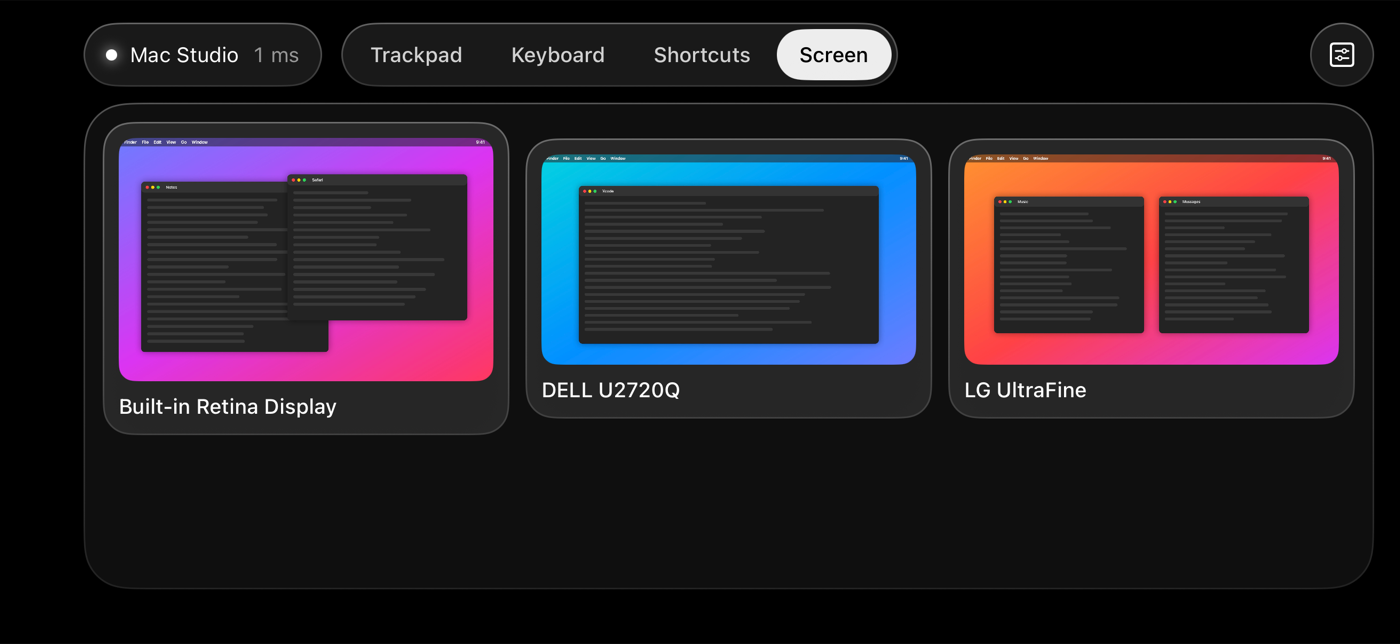
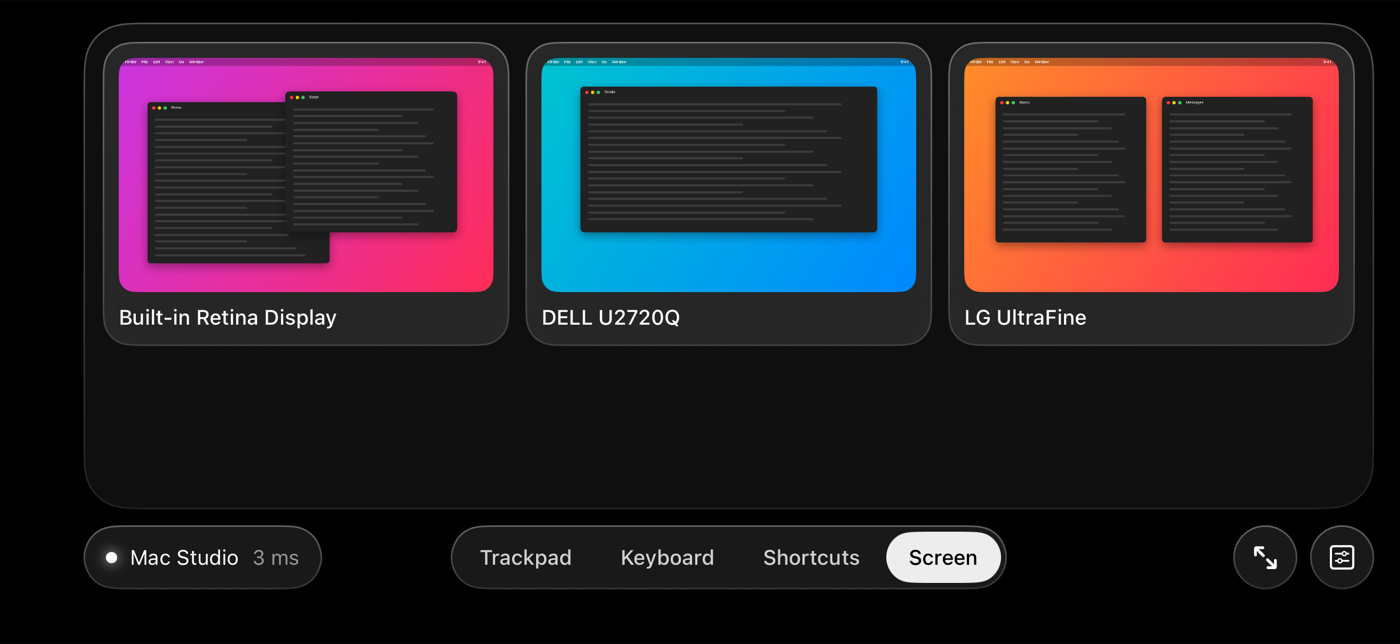
Retake the README screenshots with the bar at the bottom
New shots of the trackpad, keyboard, shortcuts, Screen tab and Settings, plus one of the trackpad in
full screen. They come from a -demo launch argument (Debug builds only): the app looks connected to a
made-up Mac with made-up desktops, so no real screen ends up in a picture.

diff --git a/DigitalControler/Client.swift b/DigitalControler/Client.swift
@@ -31,6 +31,7 @@ final class Client {
     var connecting: Bool { connection != nil && !connected }
     var error: String?
     private var browser: NWBrowser?
+    private var offline = false // a preview: never touches the network
     private var connection: NWConnection?
     /// Off once the user taps Disconnect or an automatic attempt fails, so we never fight the user.
     private var autoReconnect = true
@@ -40,7 +41,7 @@ final class Client {
     private var pingSentAt = Date.distantPast
 
     func startBrowsing() {
-        guard browser == nil else { return }
+        guard browser == nil, !offline else { return }
         // Peer-to-peer too, like the connection itself: finds the Mac over Apple's direct Wi-Fi link (AWDL)
         // when the router doesn't pass Bonjour, or the two aren't on the same network.
         let params = NWParameters.tcp
@@ -294,31 +295,73 @@ extension NWEndpoint {
 
 #if DEBUG
 extension Client {
-    /// Looks connected to a Mac that's sharing its screens, for previews. Nothing goes over the network.
-    static func preview(displays: [String] = ["Built-in Retina Display", "LG UltraFine", "Sidecar"],
+    /// Looks connected to a Mac that's sharing its screens, for previews and README screenshots.
+    /// Nothing goes over the network.
+    static func preview(macName: String = "MacBook Pro",
+                        displays: [String] = ["Built-in Retina Display", "DELL U2720Q", "LG UltraFine"],
                         selected: Int? = nil) -> Client {
         let c = Client()
+        c.offline = true
         c.connected = true
-        c.macName = "MacBook Pro"
-        c.latencyMs = 8
+        c.macName = macName
+        c.latencyMs = 3
         c.displays = displays
         c.selectedDisplay = selected
-        for i in displays.indices { c.screenFrames[i] = fakeScreen(hue: 0.55 + Double(i) * 0.12) }
+        for i in displays.indices { c.screenFrames[i] = fakeDesktop(i) }
         return c
     }
 
-    /// A made-up desktop: wallpaper, menu bar, two windows.
-    private static func fakeScreen(hue: Double) -> UIImage {
+    /// Launched with `-demo` (and optionally `-demo <display>` to open one): the app shows `preview`,
+    /// for README screenshots without a real Mac's screens in them.
+    static var demo: Client? {
+        let args = CommandLine.arguments
+        guard let i = args.firstIndex(of: "-demo") else { return nil }
+        return .preview(macName: "Mac Studio", selected: args.indices.contains(i + 1) ? Int(args[i + 1]) : nil)
+    }
+
+    /// A made-up desktop: gradient wallpaper, menu bar, and a window or two with lines for text.
+    private static func fakeDesktop(_ index: Int) -> UIImage {
+        let looks: [(colors: [UIColor], windows: [(String, CGRect)])] = [
+            ([.systemPurple, .systemPink], [("Notes", CGRect(x: 110, y: 170, width: 700, height: 620)),
+                                             ("Safari", CGRect(x: 640, y: 130, width: 660, height: 540))]),
+            ([.systemTeal, .systemBlue], [("Xcode", CGRect(x: 150, y: 110, width: 1140, height: 560))]),
+            ([.systemOrange, .systemPink], [("Music", CGRect(x: 120, y: 150, width: 580, height: 560)),
+                                            ("Messages", CGRect(x: 760, y: 150, width: 580, height: 560))]),
+        ]
+        let look = looks[index % looks.count]
         let size = CGSize(width: 1440, height: 900)
         return UIGraphicsImageRenderer(size: size).image { ctx in
-            UIColor(hue: hue, saturation: 0.5, brightness: 0.45, alpha: 1).setFill()
-            ctx.fill(CGRect(origin: .zero, size: size))
-            UIColor(white: 0.1, alpha: 0.8).setFill()
-            ctx.fill(CGRect(x: 0, y: 0, width: size.width, height: 34))
-            for (i, frame) in [CGRect(x: 140, y: 140, width: 760, height: 520),
-                               CGRect(x: 620, y: 300, width: 680, height: 480)].enumerated() {
-                UIColor(white: i == 0 ? 0.92 : 0.18, alpha: 1).setFill()
-                UIBezierPath(roundedRect: frame, cornerRadius: 18).fill()
+            let cg = ctx.cgContext
+            let gradient = CGGradient(colorsSpace: nil, colors: look.colors.map(\.cgColor) as CFArray, locations: nil)!
+            cg.drawLinearGradient(gradient, start: .zero, end: CGPoint(x: size.width, y: size.height), options: [])
+            UIColor(white: 0, alpha: 0.25).setFill()
+            cg.fill(CGRect(x: 0, y: 0, width: size.width, height: 30))
+            let menu: [NSAttributedString.Key: Any] = [.font: UIFont.systemFont(ofSize: 15, weight: .medium),
+                                                       .foregroundColor: UIColor.white]
+            ("Finder     File     Edit     View     Go     Window" as NSString).draw(at: CGPoint(x: 24, y: 6), withAttributes: menu)
+            ("9:41" as NSString).draw(at: CGPoint(x: size.width - 60, y: 6), withAttributes: menu)
+            for (title, frame) in look.windows {
+                let window = UIBezierPath(roundedRect: frame, cornerRadius: 14)
+                cg.saveGState()
+                cg.setShadow(offset: CGSize(width: 0, height: 12), blur: 40, color: UIColor(white: 0, alpha: 0.4).cgColor)
+                UIColor(white: 0.13, alpha: 1).setFill()
+                window.fill()
+                cg.restoreGState()
+                for (i, color) in [UIColor.systemRed, .systemYellow, .systemGreen].enumerated() {
+                    color.setFill()
+                    UIBezierPath(ovalIn: CGRect(x: frame.minX + 18 + CGFloat(i) * 22, y: frame.minY + 16, width: 13, height: 13)).fill()
+                }
+                (title as NSString).draw(at: CGPoint(x: frame.minX + 92, y: frame.minY + 12), withAttributes: [
+                    .font: UIFont.systemFont(ofSize: 14, weight: .semibold), .foregroundColor: UIColor(white: 0.8, alpha: 1)])
+                UIColor(white: 1, alpha: 0.12).setFill()
+                var y = frame.minY + 64
+                var line = 0
+                while y < frame.maxY - 30 {
+                    let width = (frame.width - 60) * [0.9, 0.7, 0.8, 0.55, 0.85][line % 5]
+                    cg.fill(CGRect(x: frame.minX + 30, y: y, width: width, height: 8))
+                    y += 26
+                    line += 1
+                }
             }
         }
     }

diff --git a/DigitalControler/ContentView.swift b/DigitalControler/ContentView.swift
@@ -6,7 +6,11 @@
 import SwiftUI
 
 struct ContentView: View {
+    #if DEBUG
+    @State private var client = Client.demo ?? Client()
+    #else
     @State private var client = Client()
+    #endif
 
     var body: some View {
         Group {

diff --git a/README.md b/README.md
@@ -14,7 +14,7 @@ Mission Control, type on a Mac keyboard, fire common shortcuts, or see your Mac'
 all from your phone.
 
 <p align="center">
-  <img src="docs/screenshots/trackpad.png" alt="Trackpad screen: the Mac's name and latency, mode switcher, a large touch surface, and a scroll strip" width="820">
+  <img src="docs/screenshots/trackpad.png" alt="Trackpad screen: a large touch surface and a scroll strip, with a bar below holding the Mac's name and latency, the mode switcher, full screen and settings" width="820">
 </p>
 
 ## How it works
@@ -94,9 +94,13 @@ The app reconnects to your last Mac automatically.
 |---|---|
 | <img src="docs/screenshots/keyboard.png" alt="Mac keyboard layout with sticky modifier keys" width="400"> | <img src="docs/screenshots/shortcuts.png" alt="Type to Mac field, nine shortcut buttons, and a mini trackpad" width="400"> |
 
+| Trackpad: full screen |
+|---|
+| <img src="docs/screenshots/trackpad-fullscreen.png" alt="Trackpad in full screen: no bar, the touch surface fills the phone, with an exit button under the scroll strip" width="400"> |
+
 | Connect | Settings | Gestures |
 |---|---|---|
-| <img src="docs/screenshots/connect.png" alt="Connect screen listing nearby Macs" width="250"> | <img src="docs/screenshots/settings.png" alt="Settings: open-in mode, orientation, speeds, click options" width="250"> | <img src="docs/screenshots/settings-gestures.png" alt="Settings: on-screen toggles, gesture list, connected Mac" width="250"> |
+| <img src="docs/screenshots/connect.png" alt="Connect screen listing nearby Macs" width="250"> | <img src="docs/screenshots/settings.png" alt="Settings: open-in mode, orientation, speeds, click options, bar at the bottom" width="250"> | <img src="docs/screenshots/settings-gestures.png" alt="Settings: on-screen toggles, gesture list, connected Mac" width="250"> |
 
 ## Requirements
 
@@ -186,6 +190,10 @@ move: iPhone time, arrival, play time):
 ```bash
 /usr/bin/log stream --level debug --predicate 'subsystem == "com.jua.DigitalControlerMac" AND category == "pacer"'
 ```
+
+To retake the README screenshots, run a Debug build in the Simulator with the `-demo` launch argument
+(`-demo 0` opens the first display in the Screen tab). The app then looks connected to a made-up Mac with made-up
+desktops, so no real screen ends up in a picture.
 
 Every view has an Xcode preview (Editor → Canvas). The Screen and Remote previews use `Client.preview()`, a stand-in
 that looks connected to a Mac sharing three displays, so you can work on those screens without a Mac.
